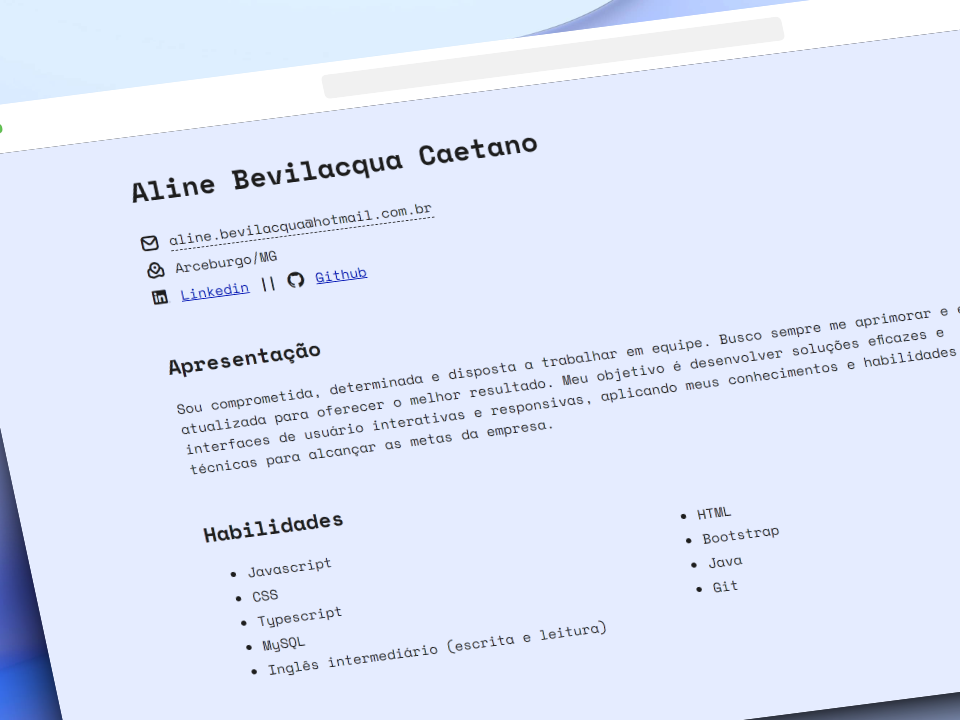
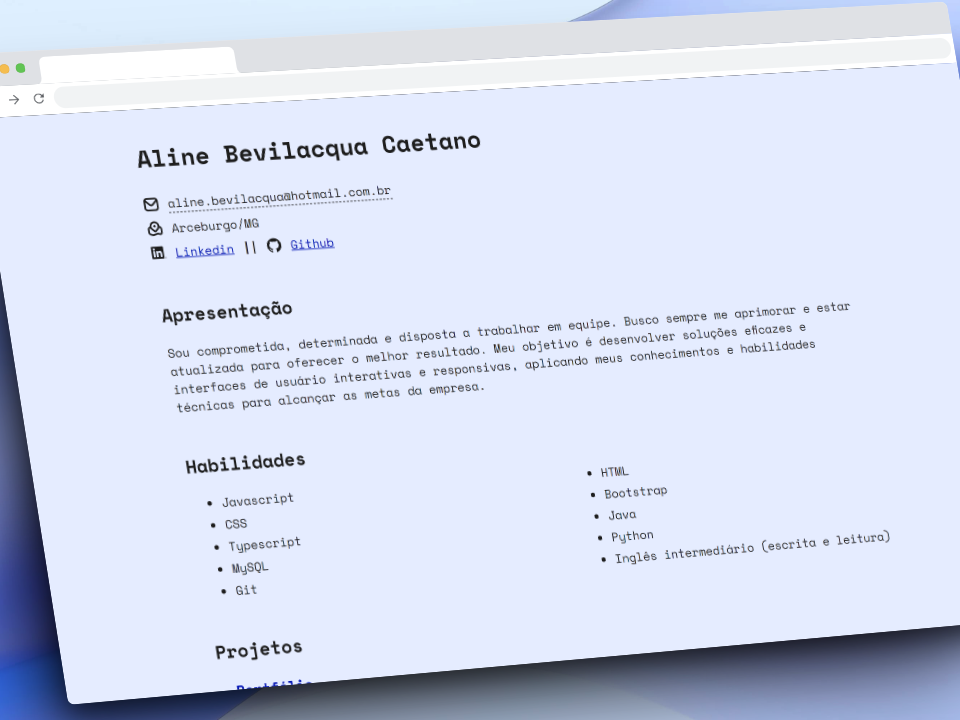
✨ feat: novo projeto, skill e certificado

diff --git a/index.html b/index.html
@@ -6,8 +6,7 @@
         <meta name="viewport" content="width=device-width, initial-scale=1.0">
         <meta name="description" content="Portfólio de desenvolvedora web frontend - Aline Bevilacqua">
         <meta name="author" content="Aline Bevilacqua">
-        <meta name="keywords"
-            content="Aline Bevilacqua, portfólio, desenvolvedora, web, front-end, HTML, CSS, Javascript, Git, Typescript, Java, MySQL, Bootstrap">
+        <meta name="keywords" content="Aline Bevilacqua, portfólio, desenvolvedora, web, front-end, HTML, CSS, Javascript, Git, Typescript, Java, MySQL, Bootstrap">
         <meta name="robots" content="index, follow">
         <meta property="og:title" content="Portfólio - Aline Bevilacqua">
         <meta property="og:description" content="Portfólio de desenvolvedora web frontend - Aline Bevilacqua">
@@ -37,15 +36,9 @@
         <link rel="icon" type="image/png" sizes="32x32" href="./src/assets/favicon-32x32.png">
         <link rel="icon" type="image/png" sizes="16x16" href="./src/assets/favicon-16x16.png">
         <link rel="manifest" href="./src/assets/site.webmanifest">
-        <link rel="preconnect" href="https://cdnjs.cloudflare.com/ajax/libs/normalize/8.0.1/normalize.min.css"
-            integrity="sha512-NhSC1YmyruXifcj/KFRWoC561YpHpc5Jtzgvbuzx5VozKpWvQ+4nXhPdFgmx8xqexRcpAglTj9sIBWINXa8x5w==" crossorigin="anonymous"
-            referrerpolicy="no-referrer">
-        <link rel="prefetch" href="https://cdnjs.cloudflare.com/ajax/libs/normalize/8.0.1/normalize.min.css"
-            integrity="sha512-NhSC1YmyruXifcj/KFRWoC561YpHpc5Jtzgvbuzx5VozKpWvQ+4nXhPdFgmx8xqexRcpAglTj9sIBWINXa8x5w==" crossorigin="anonymous"
-            referrerpolicy="no-referrer">
-        <link rel="stylesheet" href="https://cdnjs.cloudflare.com/ajax/libs/normalize/8.0.1/normalize.min.css"
-            integrity="sha512-NhSC1YmyruXifcj/KFRWoC561YpHpc5Jtzgvbuzx5VozKpWvQ+4nXhPdFgmx8xqexRcpAglTj9sIBWINXa8x5w==" crossorigin="anonymous"
-            referrerpolicy="no-referrer">
+        <link rel="preconnect" href="https://cdnjs.cloudflare.com/ajax/libs/normalize/8.0.1/normalize.min.css" integrity="sha512-NhSC1YmyruXifcj/KFRWoC561YpHpc5Jtzgvbuzx5VozKpWvQ+4nXhPdFgmx8xqexRcpAglTj9sIBWINXa8x5w==" crossorigin="anonymous" referrerpolicy="no-referrer">
+        <link rel="prefetch" href="https://cdnjs.cloudflare.com/ajax/libs/normalize/8.0.1/normalize.min.css" integrity="sha512-NhSC1YmyruXifcj/KFRWoC561YpHpc5Jtzgvbuzx5VozKpWvQ+4nXhPdFgmx8xqexRcpAglTj9sIBWINXa8x5w==" crossorigin="anonymous" referrerpolicy="no-referrer">
+        <link rel="stylesheet" href="https://cdnjs.cloudflare.com/ajax/libs/normalize/8.0.1/normalize.min.css" integrity="sha512-NhSC1YmyruXifcj/KFRWoC561YpHpc5Jtzgvbuzx5VozKpWvQ+4nXhPdFgmx8xqexRcpAglTj9sIBWINXa8x5w==" crossorigin="anonymous" referrerpolicy="no-referrer">
         <link rel="preload" href="./src/assets/blob.svg" as="image">
         <link rel="preconnect" href="./src/css/style.css">
         <link rel="prefetch" href="./src/css/style.css">
@@ -95,22 +88,18 @@
                     </a>
                 </div>
                 <div class="home__perfil-img">
-                    <img src="./src/assets/perfil-img.webp"
-                        alt="Imagem de perfil: Uma mulher de cabelo castanho na altura dos ombros e olhos castanhos escuros, usando uma blusa laranja"
-                        height="250" width="187.59">
+                    <img src="./src/assets/perfil-img.webp" alt="Imagem de perfil: Uma mulher de cabelo castanho na altura dos ombros e olhos castanhos escuros, usando uma blusa laranja" height="250" width="187.59">
                 </div>
-                <h1 class="home__title">Olá! Meu nome é Aline Bevilacqua e sou uma <span class="home__title--highlight"
-                        data-text="Desenvolvedora Web Frontend!"></span>
+                <h1 class="home__title">Olá! Meu nome é Aline Bevilacqua e sou uma <span class="home__title--highlight" data-text="Desenvolvedora Web Frontend!"></span>
                 </h1>
-                <a href="./src/assets/curriculo(2p).pdf" download="curriculo" class="home__cv-download-button">
+                <a href="./src/assets/curriculo(2p).pdf" download="cv-aline-bevilacqua-dev" class="home__cv-download-button">
                     Download currículo em PDF <i class="fi fi-sr-download"></i>
                 </a>
             </section>
             <section id="about-me">
                 <h2 class="about-me__title">Sobre mim</h2>
                 <div class="about-me-container">
-                    <img src="./src/assets/pink-aesthetic.gif" alt="Gif animado de mãos digitando em um teclado" loading="lazy" class="about-me__img"
-                        width="250">
+                    <img src="./src/assets/pink-aesthetic.gif" alt="Gif animado de mãos digitando em um teclado" loading="lazy" class="about-me__img" width="250">
                     <p class="about-me__description">
                         Sou uma profissional dedicada, determinada, que gosta muito de aprender e viso sempre entregar o melhor.
                         Comecei a estudar programação através da plataforma <a target="_blank" href="https://potenciatech.com.br/">Potência Tech</a>
@@ -129,34 +118,32 @@
                     <h3>Certificados</h3>
                     <ul class="certificates__list">
                         <li>
-                            <a href="https://www.udemy.com/certificate/UC-0576a1dc-1a44-42c7-9a2e-837a50ebaa38/" target="_blank" rel="noopener"
-                                class="certificates-list__item-link">
-                                <img src="./src/assets/curso-web-frontend-daniel.webp" alt="Certificado do curso web frontend do Daniel Tapias"
-                                    width="250">
+                            <a href="https://www.udemy.com/certificate/UC-0576a1dc-1a44-42c7-9a2e-837a50ebaa38/" target="_blank" rel="noopener" class="certificates-list__item-link">
+                                <img src="./src/assets/curso-web-frontend-daniel.webp" alt="Certificado do curso web frontend do Daniel Tapias" width="250">
                             </a>
                         </li>
                         <li>
-                            <a href="https://www.udemy.com/certificate/UC-0621cd5d-b5d4-4641-998b-adbce29df26f/" target="_blank" rel="noopener"
-                                class="certificates-list__item-link">
-                                <img src="./src/assets/curso-bootstrap-5.webp" alt="Certificado do curso de Bootstrap 5 do Roberto Oliveira"
-                                    width="250">
+                            <a href="https://www.udemy.com/certificate/UC-0621cd5d-b5d4-4641-998b-adbce29df26f/" target="_blank" rel="noopener" class="certificates-list__item-link">
+                                <img src="./src/assets/curso-bootstrap-5.webp" alt="Certificado do curso de Bootstrap 5 do Roberto Oliveira" width="250">
                             </a>
                         </li>
                         <li>
-                            <a href="https://cursos.alura.com.br/degree/certificate/d97a4080-67de-4a19-8d11-5b8983a1ef2d" target="_blank"
-                                rel="noopener" class="certificates-list__item-link">
+                            <a href="https://www.udemy.com/certificate/UC-85df7721-19a4-4d83-881a-0ca31ff947d6/" target="_blank" rel="noopener" class="certificates-list__item-link">
+                                <img src="./src/assets/curso-python.webp" alt="Certificado do curso de Python do André Iacono" width="250">
+                            </a>
+                        </li>
+                        <li>
+                            <a href="https://cursos.alura.com.br/degree/certificate/d97a4080-67de-4a19-8d11-5b8983a1ef2d" target="_blank" rel="noopener" class="certificates-list__item-link">
                                 <img src="./src/assets/formacao-frontend-Alura.webp" alt="Certificado da formação frontend da Alura" width="250">
                             </a>
                         </li>
                         <li>
-                            <a href="https://cursos.alura.com.br/degree/certificate/bd4ee6a3-cc29-4c64-8c84-54bf4ba94312" target="_blank"
-                                rel="noopener" class="certificates-list__item-link">
+                            <a href="https://cursos.alura.com.br/degree/certificate/bd4ee6a3-cc29-4c64-8c84-54bf4ba94312" target="_blank" rel="noopener" class="certificates-list__item-link">
                                 <img src="./src/assets/formacao-java-Alura.webp" alt="Certificado da formação Java da Alura" width="250">
                             </a>
                         </li>
                         <li>
-                            <a href="https://cursos.alura.com.br/program/certificate/595e1101-2510-4880-a1b0-2017b7747edc" target="_blank"
-                                rel="noopener" class="certificates-list__item-link">
+                            <a href="https://cursos.alura.com.br/program/certificate/595e1101-2510-4880-a1b0-2017b7747edc" target="_blank" rel="noopener" class="certificates-list__item-link">
                                 <img src="./src/assets/programa-one.webp" alt="Certificado do programa Oracle Next Education" width="250">
                             </a>
                         </li>
@@ -174,6 +161,7 @@
                     <li class="skills__list-item skills--bootstrap" data-aos="zoom-in-up">Bootstrap</li>
                     <li class="skills__list-item skills--java" data-aos="zoom-in-up">Java</li>
                     <li class="skills__list-item skills--mysql" data-aos="zoom-in-up">MySQL</li>
+                    <li class="skills__list-item skills--python" data-aos="zoom-in-up">Python</li>
                 </ul>
             </section>
             <section id="projects">
@@ -181,55 +169,52 @@
                 <div class="projects-container swiper">
                     <ul class="projects__list swiper-wrapper">
                         <li class="projects__list-item swiper-slide">
-                            <img src="./src/assets/ods-shots_so.webp" alt="Capa do projeto ODS" width="100%" height="200" loading="lazy"
-                                class="projects__img">
+                            <img src="./src/assets/ods-shots_so.webp" alt="Capa do projeto ODS" width="100%" height="200" loading="lazy" class="projects__img">
                             <div class="project-text-wrapper">
                                 <h3>ODS 3 - Saúde e Bem-estar</h3>
                                 <p>Um site sobre o Objetivo de Desenvolvimento Sustentável 3, que trata-se de Saúde e
                                     Bem-estar. Feito com HTML, CSS e Javascript</p>
-                                <a href="https://aliine98.github.io/elasnatech-atividades/ods/index.html" target="_blank" rel="noopener"
-                                    class="projects__link">Deploy</a>
-                                <a href="https://github.com/aliine98/elasnatech-atividades/tree/main/ods" target="_blank" rel="noopener"
-                                    class="projects__secondary-link">Repositório</a>
+                                <a href="https://aliine98.github.io/elasnatech-atividades/ods/index.html" target="_blank" rel="noopener" class="projects__link">Deploy</a>
+                                <a href="https://github.com/aliine98/elasnatech-atividades/tree/main/ods" target="_blank" rel="noopener" class="projects__secondary-link">Repositório</a>
                             </div>
                         </li>
                         <li class="projects__list-item swiper-slide">
-                            <img src="./src/assets/cv-shots-so.webp" alt="Capa do projeto Currículo Web" width="100%" height="200" loading="lazy"
-                                class="projects__img">
+                            <img src="./src/assets/cv-shots-so.webp" alt="Capa do projeto Currículo Web" width="100%" height="200" loading="lazy" class="projects__img">
                             <div class="project-text-wrapper">
                                 <h3>Currículo Online</h3>
                                 <p>Meu currículo online feito com HTML, CSS e Javascript. Detalha minhas experiências e
                                     informações sobre projetos e contato</p>
-                                <a href="https://aliine98.github.io/elasnatech-atividades/index.html" target="_blank" rel="noopener"
-                                    class="projects__link">Deploy</a>
-                                <a href="https://github.com/aliine98/elasnatech-atividades/tree/main/aula-6" target="_blank" rel="noopener"
-                                    class="projects__secondary-link">Repositório</a>
+                                <a href="https://aliine98.github.io/elasnatech-atividades/index.html" target="_blank" rel="noopener" class="projects__link">Deploy</a>
+                                <a href="https://github.com/aliine98/elasnatech-atividades/tree/main/aula-6" target="_blank" rel="noopener" class="projects__secondary-link">Repositório</a>
                             </div>
                         </li>
                         <li class="projects__list-item swiper-slide">
-                            <img src="./src/assets/cardapio-shots-so.webp" alt="Capa do projeto Cardápio" width="100%" height="200" loading="lazy"
-                                class="projects__img">
+                            <img src="./src/assets/cardapio-shots-so.webp" alt="Capa do projeto Cardápio" width="100%" height="200" loading="lazy" class="projects__img">
                             <div class="project-text-wrapper">
                                 <h3>Cardápio</h3>
                                 <p>Um site de cardápio simples para uma padaria fictícia que mostra cards com os pratos
                                     e suas respectivas descrições e preços. Desenvolvido com HTML e CSS.</p>
-                                <a href="https://aliine98.github.io/elasnatech-atividades/aula-7-cardapio/index.html" target="_blank" rel="noopener"
-                                    class="projects__link">Deploy</a>
-                                <a href="https://github.com/aliine98/elasnatech-atividades/tree/main/aula-7-cardapio" target="_blank" rel="noopener"
-                                    class="projects__secondary-link">Repositório</a>
+                                <a href="https://aliine98.github.io/elasnatech-atividades/aula-7-cardapio/index.html" target="_blank" rel="noopener" class="projects__link">Deploy</a>
+                                <a href="https://github.com/aliine98/elasnatech-atividades/tree/main/aula-7-cardapio" target="_blank" rel="noopener" class="projects__secondary-link">Repositório</a>
                             </div>
                         </li>
                         <li class="projects__list-item swiper-slide">
-                            <img src="./src/assets/bootstrap-shots_so.webp" alt="Capa do projeto Layout com Bootstrap" width="100%" height="200"
-                                loading="lazy" class="projects__img">
+                            <img src="./src/assets/imc.webp" alt="Capa do projeto Calculadora de IMC" width="100%" height="200" loading="lazy" class="projects__img">
+                            <div class="project-text-wrapper">
+                                <h3>Calculadora de IMC</h3>
+                                <p>Um site que calcula e classifica seu <abbr title="Índice de Massa Corporal">IMC</abbr>. Desenvolvido com HTML, Bootstrap 5, CSS e Python (usando PyScript).</p>
+                                <a href="https://aliine98.github.io/elasnatech-atividades/imc/index.html" target="_blank" rel="noopener" class="projects__link">Deploy</a>
+                                <a href="https://github.com/aliine98/elasnatech-atividades/tree/main/imc" target="_blank" rel="noopener" class="projects__secondary-link">Repositório</a>
+                            </div>
+                        </li>
+                        <li class="projects__list-item swiper-slide">
+                            <img src="./src/assets/bootstrap-shots_so.webp" alt="Capa do projeto Layout com Bootstrap" width="100%" height="200" loading="lazy" class="projects__img">
                             <div class="project-text-wrapper">
                                 <h3>Site com Bootstrap</h3>
                                 <p>Um exemplo de layout de site utilizando várias classes e componentes do bootstrap, combinado com um HTML bem
                                     estruturado e um pouco de CSS.</p>
-                                <a href="https://aliine98.github.io/elasnatech-atividades/bootstrap/index.html" target="_blank" rel="noopener"
-                                    class="projects__link">Deploy</a>
-                                <a href="https://github.com/aliine98/elasnatech-atividades/tree/main/bootstrap" target="_blank" rel="noopener"
-                                    class="projects__secondary-link">Repositório</a>
+                                <a href="https://aliine98.github.io/elasnatech-atividades/bootstrap/index.html" target="_blank" rel="noopener" class="projects__link">Deploy</a>
+                                <a href="https://github.com/aliine98/elasnatech-atividades/tree/main/bootstrap" target="_blank" rel="noopener" class="projects__secondary-link">Repositório</a>
                             </div>
                         </li>
                     </ul>
@@ -266,8 +251,7 @@
                     <li><a href="https://michalsnik.github.io/aos/" target="_blank" rel="noopener">AOS.js</a></li>
                     <li><a href="https://undraw.co/" target="_blank" rel="noopener">UnDraw</a></li>
                     <li><a href="https://blobanimation.com/" target="_blank" rel="noopener">Blob maker</a></li>
-                    <li><a href="https://tenor.com/pt-BR/view/pink-aesthetic-typing-keyboard-anime-gif-65100729292209495" target="_blank"
-                            rel="noopener">Tenor gif</a></li>
+                    <li><a href="https://tenor.com/pt-BR/view/pink-aesthetic-typing-keyboard-anime-gif-65100729292209495" target="_blank" rel="noopener">Tenor gif</a></li>
                     <li><a href="http://neumorphism.io" target="_blank" rel="noopener">Neumorphism</a></li>
                 </ul>
             </div>

diff --git a/src/css/style.css b/src/css/style.css
@@ -47,6 +47,7 @@ body {
     font-family: "Corporative Alt", sans-serif;
     line-height: 1.5;
     margin: 0;
+    overflow-x: hidden;
     padding: 0;
 }
 
@@ -472,7 +473,7 @@ body,
 }
 
 .skills--java::before {
-    background: url("../assets/Java-Dark.svg") no-repeat center / contain;
+    background: url("../assets/Java-Light.svg") no-repeat center / contain;
 }
 
 .skills--mysql::before {
@@ -481,6 +482,10 @@ body,
 
 .skills--bootstrap::before {
     background: url("../assets/Bootstrap.svg") no-repeat center / contain;
+}
+
+.skills--python::before {
+    background: url("../assets/Python-Dark.svg") no-repeat center / contain;
 }
 
 /* Projects */
@@ -670,6 +675,10 @@ body,
     margin: 0 auto 3rem;
     place-content: center;
     text-align: initial;
+    width: fit-content;
+}
+
+.credits__list li {
     width: fit-content;
 }
 
